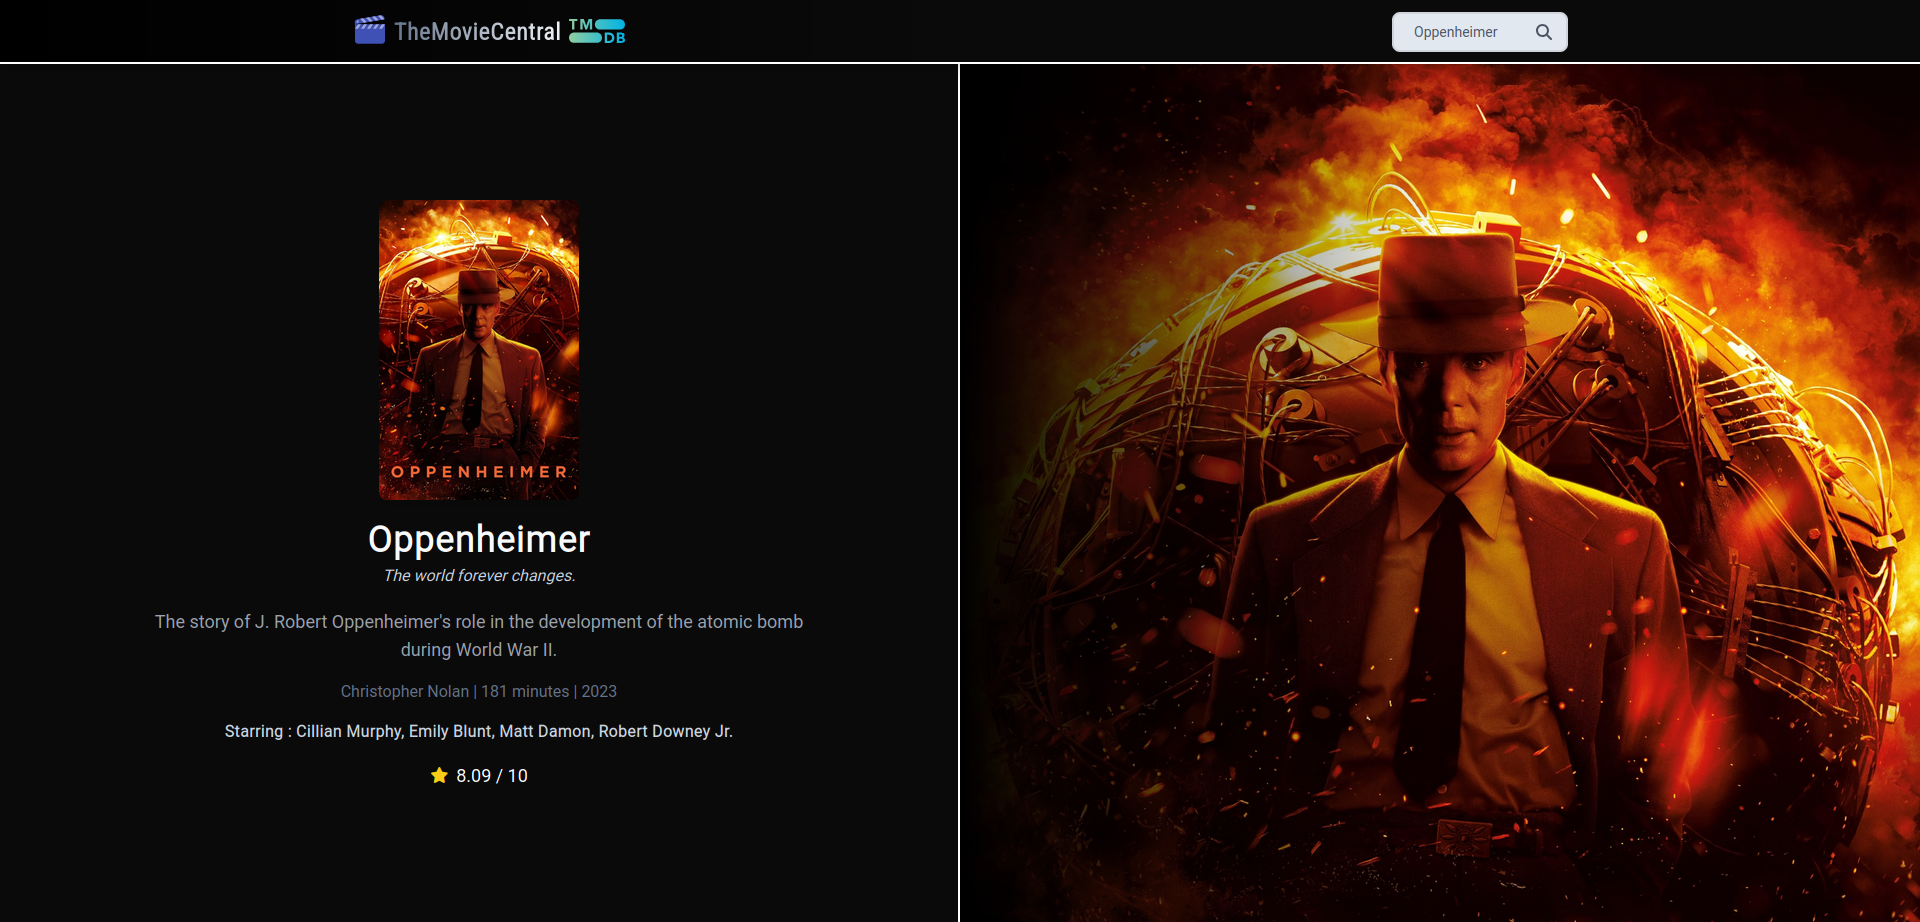
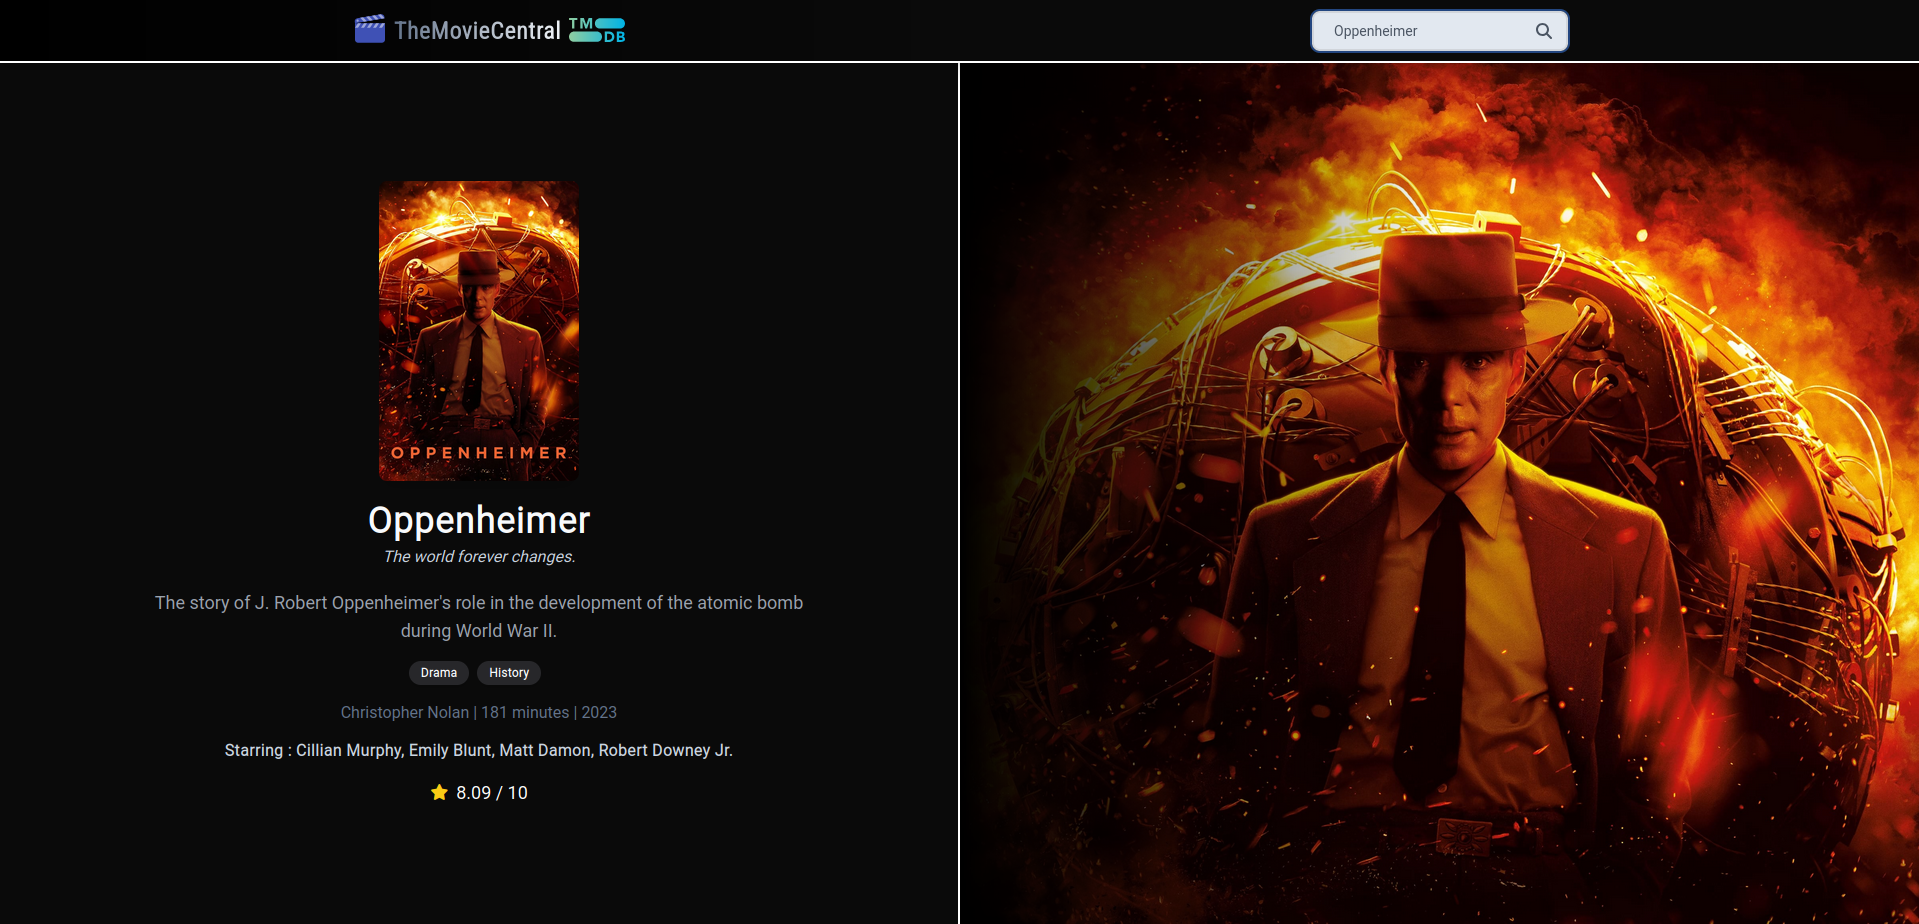
add genres and update demos

diff --git a/src/components/Movie.jsx b/src/components/Movie.jsx
@@ -4,6 +4,7 @@ import "react-toastify/dist/ReactToastify.css";
 import "@fortawesome/fontawesome-free/css/all.min.css";
 import { Watch } from "react-loader-spinner";
 import Header from "./Header";
+import Pill from "./Pill";
 
 const apiKey = import.meta.env.VITE_API_KEY;
 
@@ -14,6 +15,7 @@ function Movie() {
   const [loading, setLoading] = useState(false);
   const [cast, setCast] = useState([]);
   const [director, setDirector] = useState("");
+  const [genre, setGenre] = useState([]);
 
   function timeout(delay) {
     return new Promise((res) => setTimeout(res, delay));
@@ -82,6 +84,7 @@ function Movie() {
       );
       const movie = await response.json();
       setMovie(movie);
+      setGenre(movie.genres.map((genre) => genre.name));
     } catch (error) {
       console.error(error);
     }
@@ -127,7 +130,7 @@ function Movie() {
         {loading ? (
           <div className="relative w-full h-full overflow-hidden flex-grow flex bg-neutral-950 pt-16">
             <div className="absolute inset-0 flex justify-center items-center ">
-              <Watch color="#fff" height={80} width={80} />
+              <Watch color="#f8fafc" height={80} width={80} />
             </div>
           </div>
         ) : (
@@ -148,18 +151,23 @@ function Movie() {
                 <p className="text-lg text-gray-400 max-w-2xl text-center animate-fadeIn">
                   {data?.results[0].overview}
                 </p>
+                <div className="mt-4 flex items-center animate-fadeIn">
+                  {genre.map((genre, index) => (
+                    <Pill key={index} genre={genre} />
+                  ))}
+                </div>
                 <p className="text-md text-slate-500 max-w-2xl text-center mt-4 animate-fadeIn">
                   {director} | {movie?.runtime} minutes |{" "}
                   {movie?.release_date.split("-")[0]}
                 </p>
-                <p className="text-md text-slate-300 max-w-2xl text-center mt-4 animate-fadeIn font-semibold">
+                <p className="text-md text-slate-300 max-w-2xl text-center mt-3.5 animate-fadeIn font-semibold">
                   Starring :{" "}
                   {cast
                     .slice(0, 4)
                     .map((member) => member.name)
                     .join(", ")}
                 </p>
-                <div className="mt-4 flex items-center">
+                <div className="mt-3.5 flex items-center">
                   <i className="fas fa-star text-yellow-400 animate-fadeIn"></i>
                   <span className="text-lg text-white ml-2 mt-0.5 animate-fadeIn">
                     {movie?.vote_average.toFixed(2)} / 10

diff --git a/src/components/Pill.jsx b/src/components/Pill.jsx
@@ -1,0 +1,9 @@
+function Pill({ genre }) {
+  return (
+    <span className="bg-zinc-800 text-slate-50 text-xs font-semibold mr-2 px-3 py-1 rounded-full shadow-md">
+      {genre}
+    </span>
+  );
+}
+
+export default Pill;
